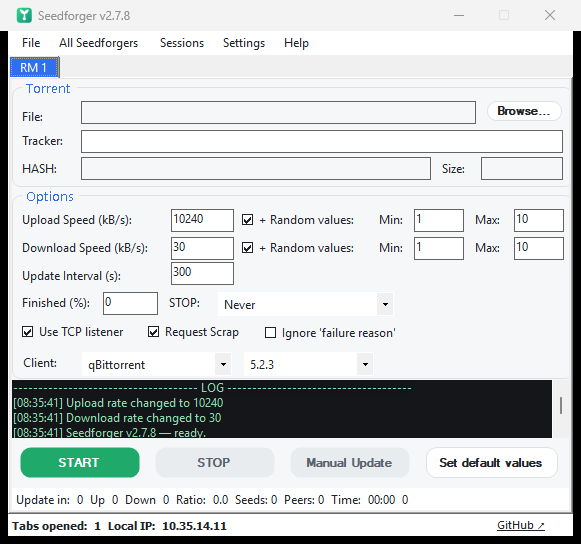
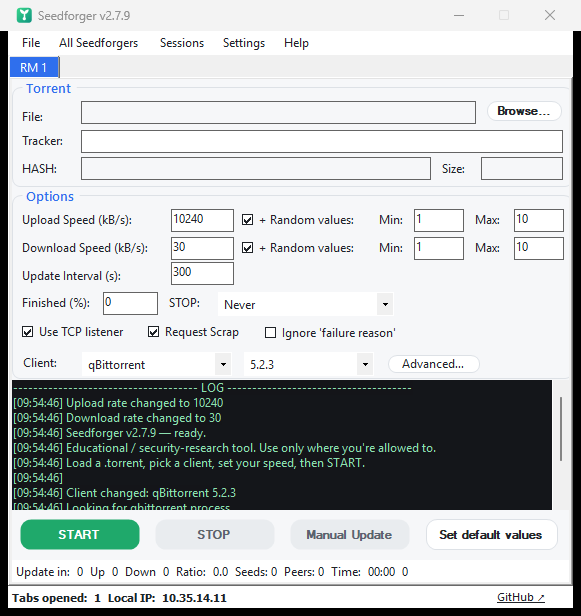
Reorganise the UI: essentials up front, an Advanced dialog for the rest
The old layout inherited a side panel that sat off-screen unless the
window was widened to ~960px, so proxy and custom-fingerprint settings
were effectively invisible. Now the main tab shows the essentials
(torrent, client, speed, timing, flags) and an 'Advanced…' button opens
a modal dialog hosting the proxy + custom-fingerprint settings (it
borrows the existing group boxes, so all their logic is unchanged).
Bump to 2.8.0.

diff --git a/Seedforger/AdvancedForm.cs b/Seedforger/AdvancedForm.cs
@@ -1,0 +1,59 @@
+using System;
+using System.Drawing;
+using System.Windows.Forms;
+
+namespace Seedforger {
+
+  /// <summary>
+  /// A modal home for the settings that used to hide in the off-screen side panel
+  /// (custom fingerprint, proxy). It borrows the existing group boxes — reparenting
+  /// them in on open and putting them back on close — so every control, event
+  /// handler and read/write path keeps working unchanged.
+  /// </summary>
+  internal sealed class AdvancedForm : Form {
+
+    private readonly (Control ctl, Control parent, Point loc, AnchorStyles anchor)[] borrowed;
+
+    internal AdvancedForm(params GroupBox[] boxes) {
+      Text = "Advanced settings";
+      FormBorderStyle = FormBorderStyle.FixedDialog;
+      MaximizeBox = false; MinimizeBox = false;
+      StartPosition = FormStartPosition.CenterParent;
+      try { Icon = Icon.ExtractAssociatedIcon(Environment.ProcessPath); } catch { }
+
+      var host = new Panel { Dock = DockStyle.Fill };
+      Controls.Add(host);
+
+      borrowed = new (Control, Control, Point, AnchorStyles)[boxes.Length];
+      var top = 12; var maxRight = 360;
+      for (var i = 0; i < boxes.Length; i++) {
+        var gb = boxes[i];
+        borrowed[i] = (gb, gb.Parent, gb.Location, gb.Anchor);
+        gb.Anchor = AnchorStyles.Top | AnchorStyles.Left; // don't let it stretch
+        gb.Parent = host;
+        gb.Location = new Point(12, top);
+        gb.Visible = true;
+        gb.BringToFront();
+        top += gb.Height + 12;                 // stack, using the box's own height
+        maxRight = Math.Max(maxRight, gb.Right);
+      }
+
+      var close = new Button { Text = "Close", Width = 90, Height = 30, DialogResult = DialogResult.OK, Name = "GhostButton" };
+      var bar = new FlowLayoutPanel { FlowDirection = FlowDirection.RightToLeft, Dock = DockStyle.Bottom, Height = 46, Padding = new Padding(10) };
+      bar.Controls.Add(close);
+      Controls.Add(bar);
+      AcceptButton = close; CancelButton = close;
+
+      var size = new Size(maxRight + 24, top + bar.Height + 4);
+      MinimumSize = new Size(size.Width + 16, size.Height + 39); // outer size floor (border + caption)
+      ClientSize = size;
+
+      FormClosed += (s, e) => {
+        foreach (var b in borrowed) { b.ctl.Parent = b.parent; b.ctl.Location = b.loc; b.ctl.Anchor = b.anchor; }
+      };
+
+      Theme.Apply(this);
+      Localization.Apply(this);
+    }
+  }
+}

diff --git a/Seedforger/RM.cs b/Seedforger/RM.cs
@@ -107,6 +107,24 @@ namespace Seedforger {
       gbxOptions.Controls.Add(cmbVersion);
       cmbClient.BringToFront();
       cmbVersion.BringToFront();
+
+      // Everything that used to be stranded off-screen (proxy, custom fingerprint)
+      // now lives behind one discoverable button.
+      var advanced = new Button {
+        Text = "Advanced…", Left = 372, Top = y - 1, Width = 100, Height = 26, Name = "GhostButton",
+      };
+      advanced.Click += (s, e) => ShowAdvanced();
+      gbxOptions.Controls.Add(advanced);
+      advanced.BringToFront();
+
+      // The client now lives here, so drop the now-empty "Client:" label that
+      // stayed behind in the advanced custom-fingerprint card.
+      ClientLabel.Visible = false;
+    }
+
+    /// <summary>Opens the advanced settings (random ranges, custom fingerprint, proxy) in a modal dialog.</summary>
+    internal void ShowAdvanced() {
+      using (var dlg = new AdvancedForm(gbxCustomClient, gbxProxy)) dlg.ShowDialog(FindForm());
     }
 
     internal void Form1_DragDrop(object sender, DragEventArgs e) {